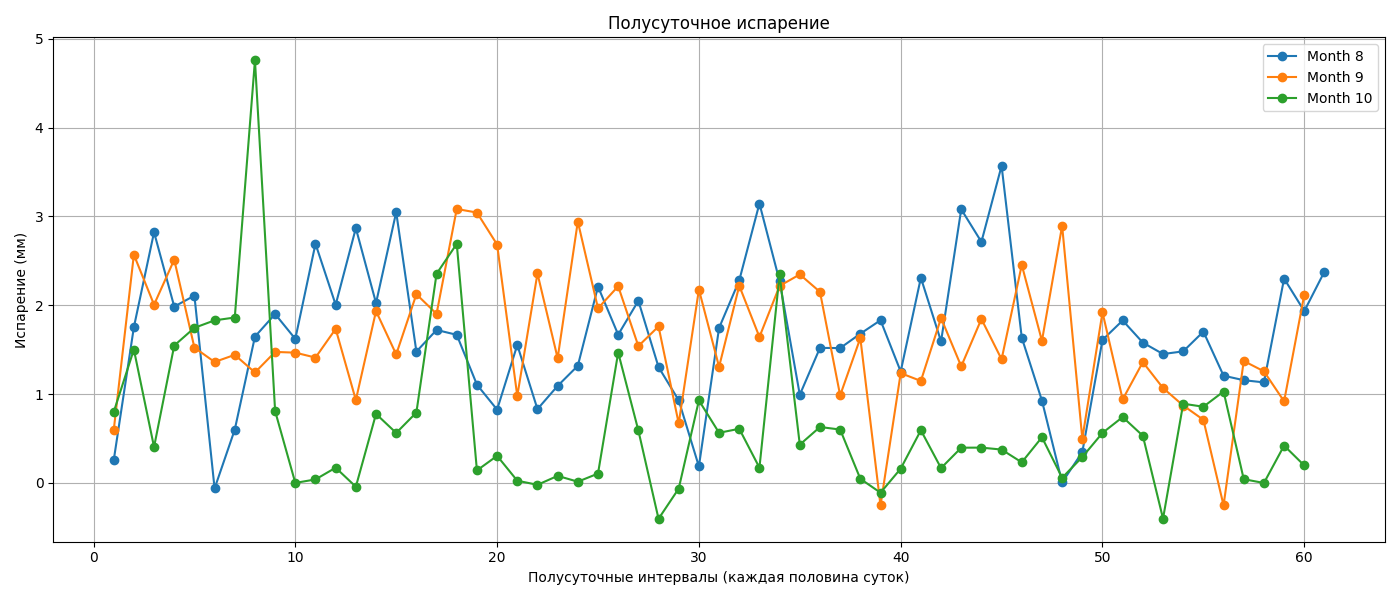
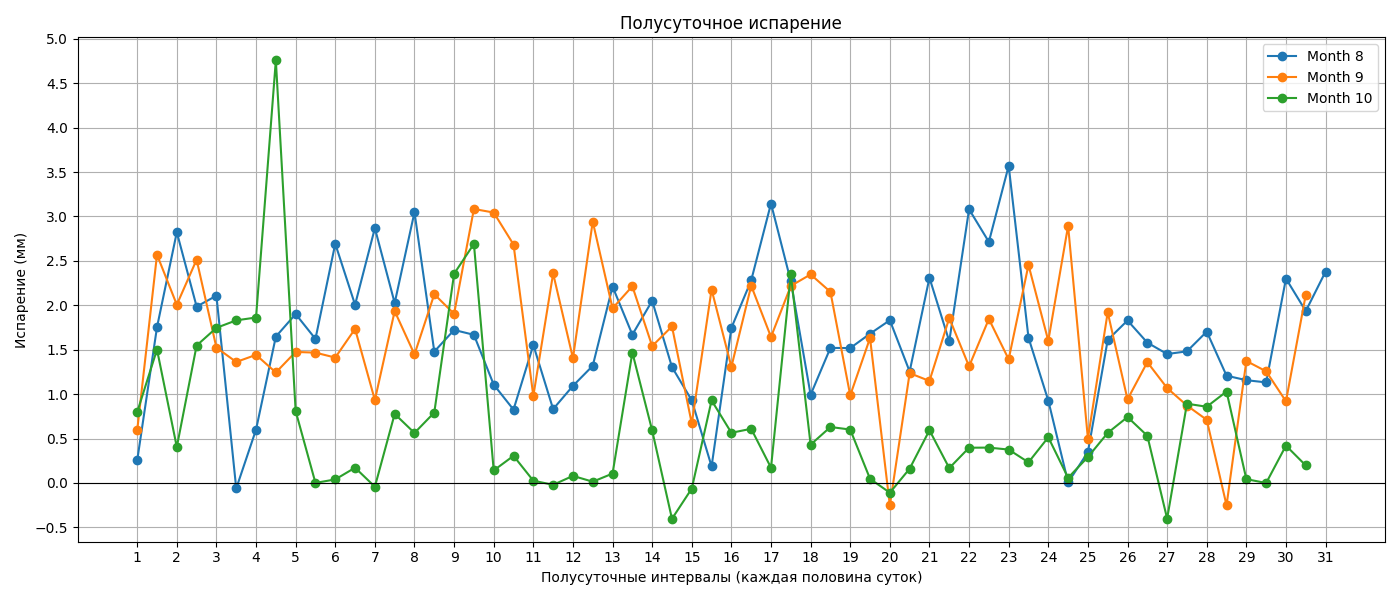
fixed plots

diff --git a/calc_evaporation.py b/calc_evaporation.py
@@ -1,5 +1,6 @@
 from pathlib import Path
 import pandas as pd
+import numpy as np
 import matplotlib.pyplot as plt
 
 # Пути
@@ -77,9 +78,21 @@ def plot_daily(df_daily, out_dir):
     plt.figure(figsize=(12,6))
     for month, group in df_daily.groupby('month'):
         plt.plot(group['day'], group['evap_mm'], marker='o', label=f'Month {month}')
+    
     plt.xlabel("День месяца")
     plt.ylabel("Суточное испарение (мм)")
     plt.title("Суточное испарение по дням месяца")
+    
+    # Настройка осей
+    max_day = df_daily['day'].max()
+    plt.xticks(range(1, max_day + 1, 1))  # Каждое деление на оси X
+    
+    # Деления по Y каждые 0.5 мм
+    y_min = df_daily['evap_mm'].min()
+    y_max = df_daily['evap_mm'].max()
+    plt.yticks(np.arange(np.floor(y_min * 2) / 2, np.ceil(y_max * 2) / 2 + 0.5, 0.5))
+    plt.axhline(y=0, color='black', linewidth=0.8, linestyle='-')
+    
     plt.legend()
     plt.grid(True)
     plt.tight_layout()
@@ -91,16 +104,34 @@ def plot_half_daily(df_half, out_dir):
     df_half['month'] = pd.to_datetime(df_half['date']).dt.month
 
     plt.figure(figsize=(14,6))
+    
+    # Найдем максимальную длину для оси X
+    max_points = 0
     for month, group in df_half.groupby('month'):
-        group = group.sort_values(['date', 'half_day'])  # сортируем по дате и половине суток
-        # создаём индекс полусуточек
+        group = group.sort_values(['date', 'half_day'])
+        max_points = max(max_points, len(group))
+    
+    for month, group in df_half.groupby('month'):
+        group = group.sort_values(['date', 'half_day'])
         group = group.reset_index(drop=True)
-        group['half_day_index'] = range(1, len(group)+1)
+        group['half_day_index'] = range(1, len(group) + 1)
         plt.plot(group['half_day_index'], group['evap_mm'], marker='o', label=f'Month {month}')
-
+    
     plt.xlabel("Полусуточные интервалы (каждая половина суток)")
     plt.ylabel("Испарение (мм)")
     plt.title("Полусуточное испарение")
+    
+    # Настройка осей
+    tick_positions = list(range(1, max_points + 1, 2))
+    tick_labels = list(range(1, len(tick_positions) + 1))
+    plt.xticks(tick_positions, tick_labels)
+    
+    # Деления по Y каждые 0.5 мм
+    y_min = df_half['evap_mm'].min()
+    y_max = df_half['evap_mm'].max()
+    plt.yticks(np.arange(np.floor(y_min * 2) / 2, np.ceil(y_max * 2) / 2 + 0.5, 0.5))
+    plt.axhline(y=0, color='black', linewidth=0.8, linestyle='-')
+    
     plt.legend()
     plt.grid(True)
     plt.tight_layout()
@@ -113,13 +144,30 @@ def plot_hourly(df_hourly, out_dir):
     df_hourly['hour'] = pd.to_datetime(df_hourly['datetime']).dt.hour
 
     plt.figure(figsize=(12,6))
+    
+    # Соберем все средние значения для определения диапазона Y
+    all_means = []
+    for month, group in df_hourly.groupby('month'):
+        hourly_mean = group.groupby('hour')['evap_mm'].mean()
+        all_means.extend(hourly_mean.values)
+    
     for month, group in df_hourly.groupby('month'):
         hourly_mean = group.groupby('hour')['evap_mm'].mean()
         plt.plot(hourly_mean.index, hourly_mean.values, marker='o', label=f'Month {month}')
+    
     plt.xlabel("Час")
     plt.ylabel("Среднее испарение за час (мм)")
     plt.title("Часовое испарение (среднее по месяцам)")
-    plt.xticks(range(0,24))
+    
+    # Настройка осей
+    plt.xticks(range(0, 24, 1))  # Каждый час на оси X
+    
+    # Деления по Y каждые 0.5 мм
+    y_min = min(all_means)
+    y_max = max(all_means)
+    plt.yticks(np.arange(-0.1, np.ceil(y_max * 2) / 2, 0.05))
+    plt.axhline(y=0, color='black', linewidth=0.8, linestyle='-')
+    
     plt.legend()
     plt.grid(True)
     plt.tight_layout()

diff --git a/calc_evaporation_corrected.py b/calc_evaporation_corrected.py
@@ -1,5 +1,6 @@
 from pathlib import Path
 import pandas as pd
+import numpy as np
 import matplotlib.pyplot as plt
 
 # ПУТИ
@@ -111,7 +112,55 @@ for day in first_days:
     plt.xlabel("Час суток")
     plt.ylabel("Накопленное испарение, мм")
     plt.title(f"Внутрисуточный ход испарения — {day}")
-    plt.grid(True)
+    
+    # НАСТРОЙКА ОСЕЙ
+    # Ось X: деления каждый час (0, 1, 2, ..., 23)
+    plt.xticks(range(0, 24, 1))
+    
+    # Ось Y: деления каждые 0.5 мм
+    # Определяем диапазон данных
+    all_y_values = np.concatenate([evap_old.values, evap_new.values])
+    y_min = all_y_values.min()
+    y_max = all_y_values.max()
+    
+    # Если данные отсутствуют или некорректны
+    if np.isnan(y_min) or np.isnan(y_max):
+        y_min = -0.5
+        y_max = 0.5
+    
+    # Гарантируем минимальный диапазон
+    if y_max - y_min < 0.5:
+        y_center = (y_min + y_max) / 2
+        y_min = y_center - 0.5
+        y_max = y_center + 0.5
+    
+    # Создаем деления с шагом 0.5 мм
+    y_start = np.floor(y_min * 2) / 2
+    y_end = np.ceil(y_max * 2) / 2 + 0.5
+    
+    # Проверяем корректность диапазона
+    if y_start >= y_end:
+        y_start = -0.5
+        y_end = 0.5
+    
+    # Создаем деления
+    if y_end > y_start:  # Проверяем перед созданием arange
+        y_ticks = np.arange(y_start, y_end, 0.5)
+        plt.yticks(y_ticks)
+    else:
+        # Если что-то пошло не так, используем стандартные деления
+        pass  # Оставляем стандартные деления matplotlib
+    
+    # Выделяем ноль (y=0)
+    plt.axhline(y=0, color='black', linewidth=0.8, linestyle='-')
+    
+    # Подписываем ноль жирным
+    ax = plt.gca()
+    for tick in ax.yaxis.get_major_ticks():
+        if tick.get_loc() == 0:
+            tick.label1.set_fontweight('bold')
+    
+    plt.grid(True, alpha=0.3)
     plt.legend()
     plt.tight_layout()
     plt.savefig(OUT_DIR / f"evap_diurnal_{day}.png")
